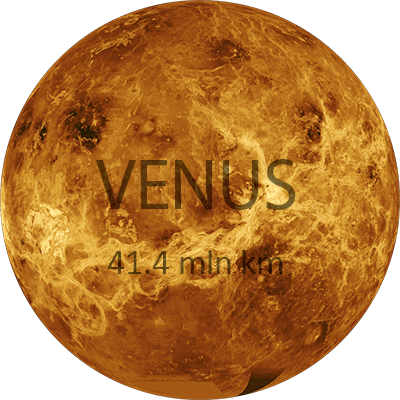
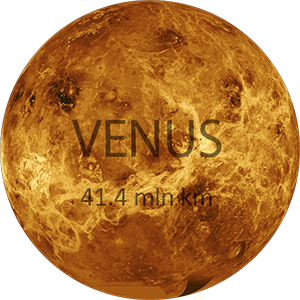
game/fix: optimize images

diff --git a/game/js/main.js b/game/js/main.js
@@ -96,14 +96,16 @@ function create() {
     planets.create(CONFIGS.mapWidth / 2, CONFIGS.mapHeight - 8 * CONFIGS.planetDistance, 'neptune');
     planets.create(CONFIGS.mapWidth / 2, CONFIGS.mapHeight - 9 * CONFIGS.planetDistance, 'pluto');
     planets.create(CONFIGS.mapWidth / 2, CONFIGS.mapHeight - 10 * CONFIGS.planetDistance, 'sun');
-    // moon
     moon = planets.create(CONFIGS.mapWidth / 2, CONFIGS.mapHeight - 11 * CONFIGS.planetDistance, 'moon');
-    moon.anchor.set(0.5);
-    moon.scale.setTo(1.5);
+    
+    planets.children.forEach(el => {
+        el.anchor.set(0.5);
+        el.scale.setTo(1.5);
+    });
+
+    // moon
     game.physics.enable(moon, Phaser.Physics.ARCADE);
     moon.body.setCircle(150, 50, 50);
-
-    planets.children.forEach( el => el.anchor.set(0.5) );
     
     // flag
     flag = game.add.sprite(moon.x, moon.y, 'flag');
